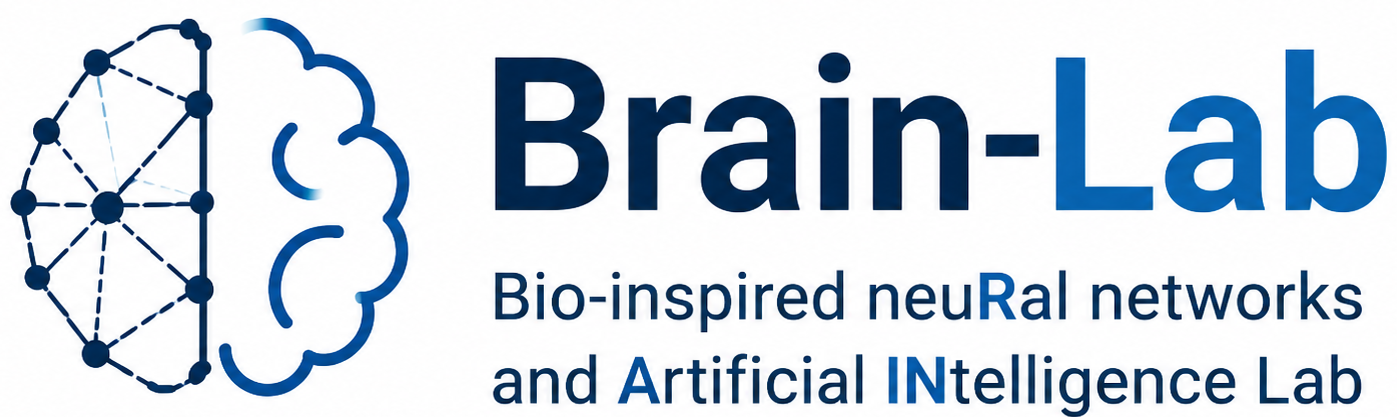
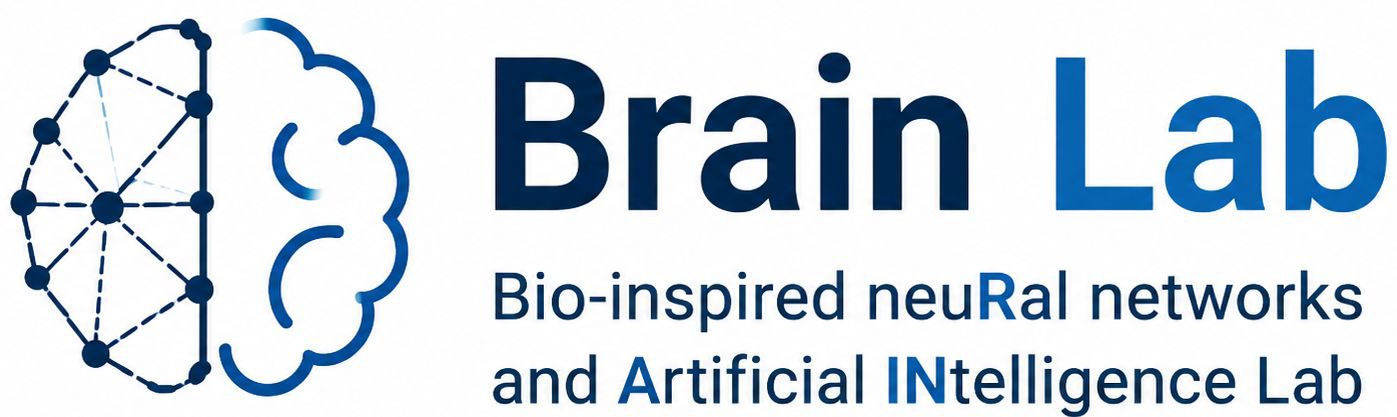
Add files via upload

Changed region(s): [[0.7079, 0.3118, 0.7695, 0.3741], [0.7079, 0.6547, 0.7387, 0.717], [0.6464, 0.8417, 0.6772, 0.9041]]

diff --git a/_includes/head-custom.html b/_includes/head-custom.html
@@ -5,7 +5,7 @@
 <link rel="preconnect" href="https://fonts.gstatic.com" crossorigin>
 <link rel="stylesheet" href="https://fonts.googleapis.com/css2?family=Inter:wght@400;500;600;700;800&display=swap">
 
-<!-- Brain-Lab custom skin (caricato dopo main.css e lo skin del tema) -->
+<!-- Brain Lab custom skin (caricato dopo main.css e lo skin del tema) -->
 <link rel="stylesheet" href="{{ '/assets/css/brainlab.css' | relative_url }}">
 
 <!-- insert favicons. use http://realfavicongenerator.net/ -->

diff --git a/assets/css/brainlab.css b/assets/css/brainlab.css
@@ -1,5 +1,5 @@
 /* ==========================================================================
-   Brain-Lab custom skin
+   Brain Lab custom skin
    Estetica accademica chiara, allineata all'identità blu del logo.
    Caricato dopo main.css e lo skin del tema (via _includes/head-custom.html),
    quindi sovrascrive lo stile "default" di so-simple.

diff --git a/README.md b/README.md
@@ -1,6 +1,6 @@
-# BRAIN-Lab
+# Brain Lab
 
-Website of the **Bio-inspired neuRal networks and Artificial INtelligence Lab (BRAIN-Lab)**
+Website of the **Bio-inspired neuRal networks and Artificial INtelligence Lab (Brain Lab)**
 — Department of Engineering, University of Messina.
 
 Built with [Jekyll](https://jekyllrb.com) and the

diff --git a/index.md b/index.md
@@ -1,11 +1,11 @@
 ---
 layout: home
-title: Brain-Lab
+title: Brain Lab
 image:
   path: /images/hero.png
 ---
 
-The **Bio-inspired neuRal networks and Artificial INtelligence Lab (Brain-Lab)** at the Department of Engineering of the University of Messina focuses on the study, design, and implementation of intelligent solutions ranging from Smart Environments to Industrial scenarios.
+The **Bio-inspired neuRal networks and Artificial INtelligence Lab (Brain Lab)** at the Department of Engineering of the University of Messina focuses on the study, design, and implementation of intelligent solutions ranging from Smart Environments to Industrial scenarios.
 
 The research activity is organized along two main lines. The first one addresses Cyber-Physical Systems and the exploration of intelligent algorithms based on Deep Neural Networks, aimed at building applications in several domains, including anomaly detection, predictive maintenance, object detection, on-device training, and more.
 